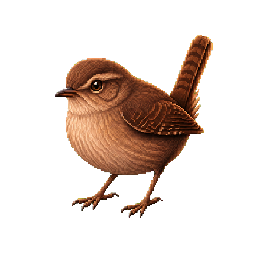
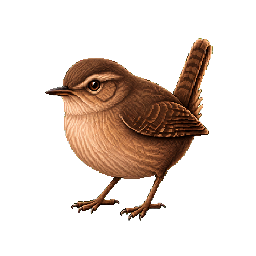
fix: enlarge and rebalance control center wren

Changed region(s): [[0.1562, 0.125, 0.8438, 0.875]]

diff --git a/app/dash/Main/index.js b/app/dash/Main/index.js
@@ -66,18 +66,18 @@ export class Main extends React.Component {
       <div className={'localSettings cardShow'}>
         <div className='localSettingsWrap'>
           <header className='dashHomeHeader'>
-            <div className='dashHomeEyebrow'>Desktop EVM wallet</div>
-            <div className='dashHomeTitleRow'>
+            <div className='dashHomeIntro'>
+              <div className='dashHomeEyebrow'>Desktop EVM wallet</div>
               <h1>Control center</h1>
-              <img
-                className='dashHomeWren'
-                src={controlCenterWren}
-                alt=''
-                aria-hidden='true'
-                data-testid='control-center-wren'
-              />
+              <p>Manage accounts, networks, permissions, and desktop behavior.</p>
             </div>
-            <p>Manage accounts, networks, permissions, and desktop behavior.</p>
+            <img
+              className='dashHomeWren'
+              src={controlCenterWren}
+              alt=''
+              aria-hidden='true'
+              data-testid='control-center-wren'
+            />
           </header>
           <nav className='dashModules' aria-label='Wallet management'>
             {dashboardSections.map((section) => (

diff --git a/test/app/dash/layout.test.js b/test/app/dash/layout.test.js
@@ -40,9 +40,11 @@ test('keeps dashboard destination descriptions readable in two balanced columns'
 
 test('keeps the Control Center Wren decorative, fixed beside the title, and absent at the narrow fallback', () => {
   expect(mainStyle).toMatch(
-    /\.dashHomeTitleRow[\s\S]*?min-height 42px[\s\S]*?align-items center[\s\S]*?\.dashHomeWren[\s\S]*?width 42px[\s\S]*?height 42px[\s\S]*?pointer-events none/
+    /\.dashHomeHeader[\s\S]*?grid-template-columns minmax\(0, 1fr\) 96px[\s\S]*?align-items center[\s\S]*?\.dashHomeWren[\s\S]*?width 96px[\s\S]*?height 96px[\s\S]*?justify-self end[\s\S]*?pointer-events none/
   )
-  expect(mainStyle).toMatch(/@media \(max-width: 560px\)[\s\S]*?\.dashHomeWren[\s\S]*?display none/)
+  expect(mainStyle).toMatch(
+    /@media \(max-width: 560px\)[\s\S]*?\.dashHomeHeader[\s\S]*?grid-template-columns minmax\(0, 1fr\)[\s\S]*?\.dashHomeWren[\s\S]*?display none/
+  )
 })
 
 test('uses ruled Earn detail regions and the shared focus treatment', () => {
